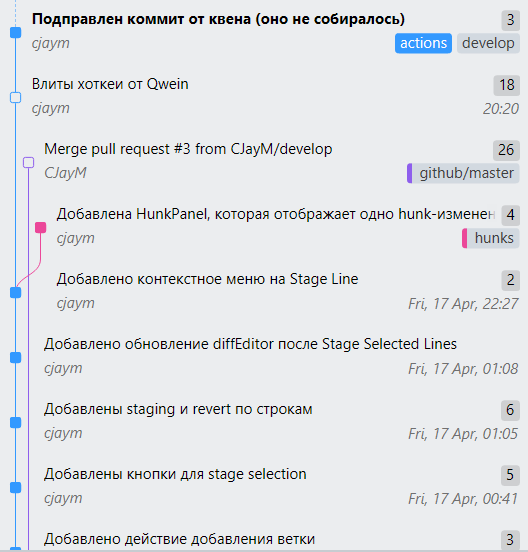
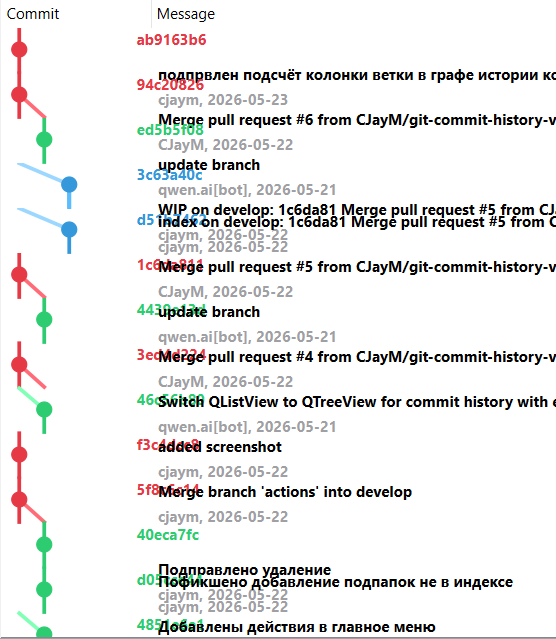
Выбор remote из выпадающего списка вместо ручного ввода

Changed region(s): [[0.0, 0.0, 1.0, 1.0]]

diff --git a/commit_craft_app/mainwindow.cpp b/commit_craft_app/mainwindow.cpp
@@ -267,8 +267,8 @@ MainWindow::MainWindow(QWidget *parent)
     });
     connect(ui->actionFetch, &QAction::triggered, this, [this]() {
         bool ok;
-        QString remote = QInputDialog::getText(this, tr("Fetch"),
-            tr("Remote name:"), QLineEdit::Normal, "origin", &ok);
+        QString remote = QInputDialog::getItem(this, tr("Fetch"),
+            tr("Remote:"), m_remoteList, 0, true, &ok);
         if (ok && !remote.isEmpty())
             git->fetchRemote(remote);
     });
@@ -284,15 +284,15 @@ MainWindow::MainWindow(QWidget *parent)
     });
     connect(ui->actionRemoveRemote, &QAction::triggered, this, [this]() {
         bool ok;
-        QString name = QInputDialog::getText(this, tr("Remove Remote"),
-            tr("Remote name:"), QLineEdit::Normal, "origin", &ok);
+        QString name = QInputDialog::getItem(this, tr("Remove Remote"),
+            tr("Remote:"), m_remoteList, 0, false, &ok);
         if (ok && !name.isEmpty())
             git->removeRemote(name);
     });
     connect(ui->actionRenameRemote, &QAction::triggered, this, [this]() {
         bool ok;
-        QString oldName = QInputDialog::getText(this, tr("Rename Remote"),
-            tr("Current name:"), QLineEdit::Normal, "origin", &ok);
+        QString oldName = QInputDialog::getItem(this, tr("Rename Remote"),
+            tr("Current name:"), m_remoteList, 0, false, &ok);
         if (!ok || oldName.isEmpty()) return;
         QString newName = QInputDialog::getText(this, tr("Rename Remote"),
             tr("New name:"), QLineEdit::Normal, "", &ok);
@@ -301,8 +301,8 @@ MainWindow::MainWindow(QWidget *parent)
     });
     connect(ui->actionPruneRemote, &QAction::triggered, this, [this]() {
         bool ok;
-        QString remote = QInputDialog::getText(this, tr("Prune Remote"),
-            tr("Remote name:"), QLineEdit::Normal, "origin", &ok);
+        QString remote = QInputDialog::getItem(this, tr("Prune Remote"),
+            tr("Remote:"), m_remoteList, 0, false, &ok);
         if (ok && !remote.isEmpty())
             git->pruneRemote(remote);
     });
@@ -365,6 +365,7 @@ MainWindow::MainWindow(QWidget *parent)
     connect(git, &Git::addRemoteReady, this, &MainWindow::onAddRemoteReady);
     connect(git, &Git::removeRemoteReady, this, &MainWindow::onRemoveRemoteReady);
     connect(git, &Git::renameRemoteReady, this, &MainWindow::onRenameRemoteReady);
+    connect(git, &Git::remotesReady, this, &MainWindow::onRemotesReady);
     
     // Connect submodule signals
     connect(git, &Git::submodulesReady, this, &MainWindow::onSubmodulesReady);
@@ -1787,4 +1788,9 @@ void MainWindow::onRenameRemoteReady(bool success, const QString &message)
     } else {
         QMessageBox::warning(this, tr("Failed to Rename Remote"), message);
     }
+}
+
+void MainWindow::onRemotesReady(const QList<QString> &remotes)
+{
+    m_remoteList = remotes;
 }

diff --git a/commit_craft_app/mainwindow.h b/commit_craft_app/mainwindow.h
@@ -93,6 +93,7 @@ private slots:
     void onAddRemoteReady(bool success, const QString &message);
     void onRemoveRemoteReady(bool success, const QString &message);
     void onRenameRemoteReady(bool success, const QString &message);
+    void onRemotesReady(const QList<QString> &remotes);
 
     // Submodule slots
     void onSubmodulesReady(const QList<QStringList> &submodules);
@@ -160,6 +161,7 @@ private:
     // Данные для фильтрации по директории
     QList<QPair<QString, QString>> m_allUnstagedFiles;
     QList<QPair<QString, QString>> m_allStagedFiles;
+    QStringList m_remoteList;
     QString m_selectedDirectory;
     QStandardItemModel *m_dirTreeModel;
     QTreeView *m_dirTreeView;

diff --git a/todo.md b/todo.md
@@ -49,20 +49,20 @@
 
   - [ ] File
 
-  - [ ] Edit
+  - [x] Edit
 
-    - [ ] gitignore
+    - [x] gitignore
 
   - [ ] View
 
     - [ ] Repositories
-    - [ ] Journal
-    - [ ] Log
-    - [ ] Branches
+    - [x] Journal
+    - [x] Log
+    - [x] Branches
     - [ ] Commit message
-    - [ ] Diff
-    - [ ] Changes
-    - [ ] Directory
+    - [x] Diff
+    - [x] Changes
+    - [x] Directory
 
   - [ ] Local
 